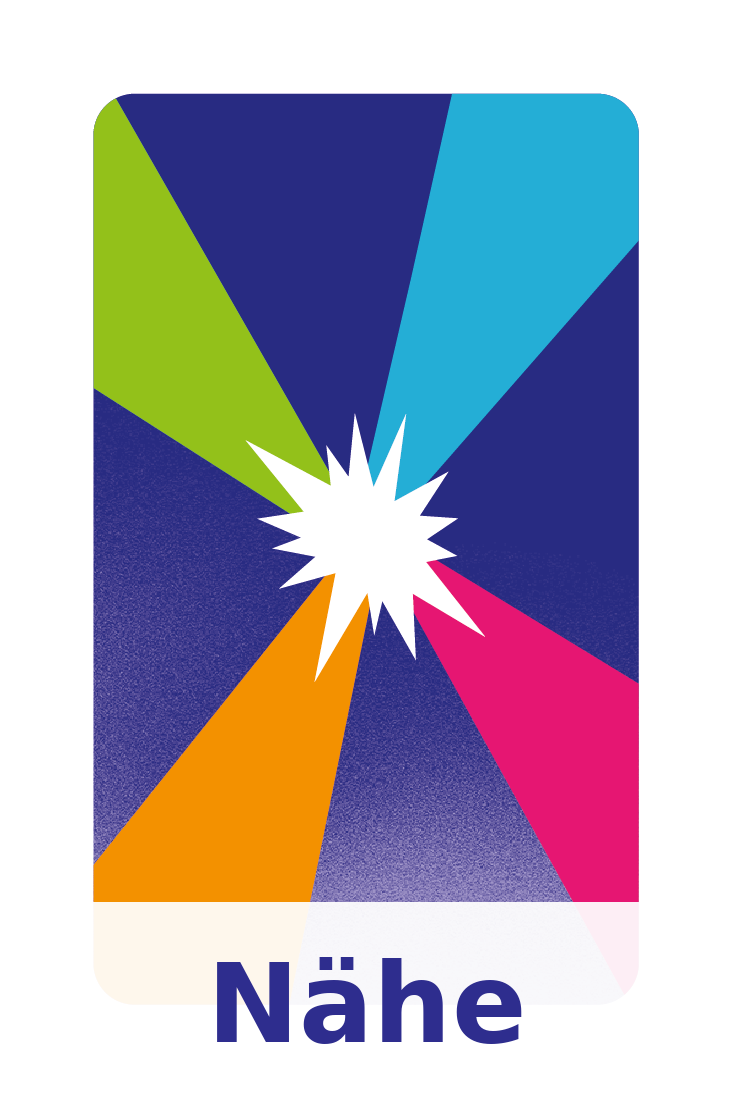
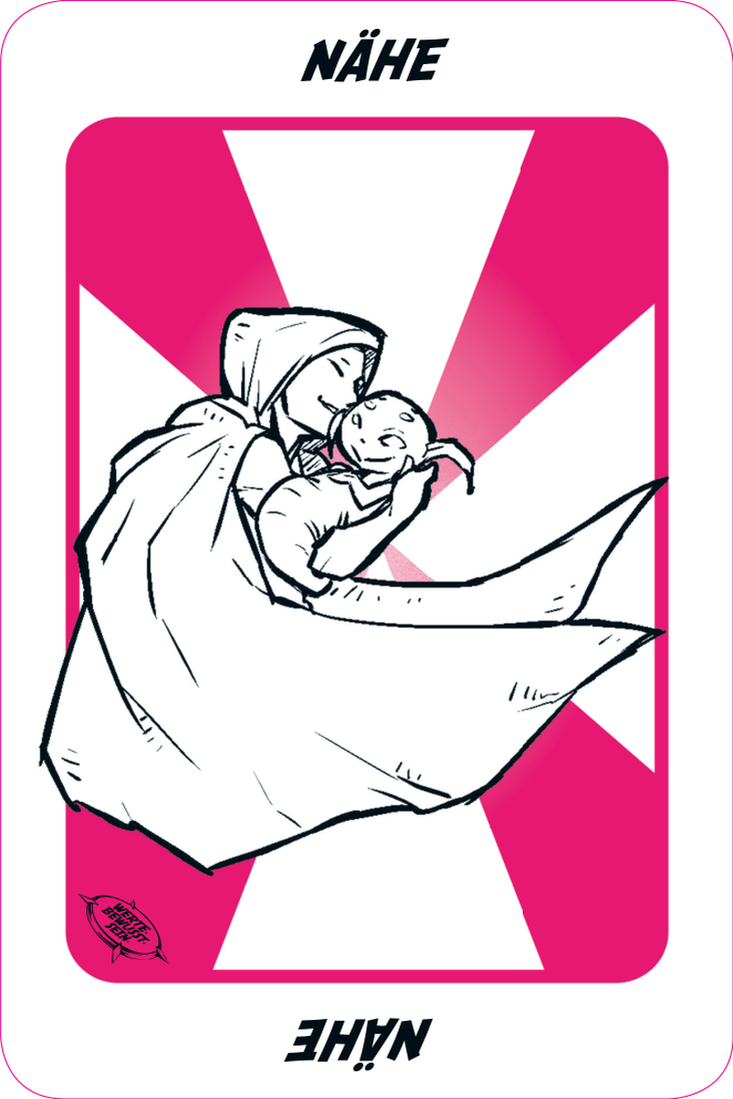
asd

diff --git a/wertetest/index.html b/wertetest/index.html
@@ -1316,10 +1316,11 @@ function DemographicsLight({ schule, klasse, onSubmit, onBack, needsKlassenwahl 
   var VS_BLUE = "#2E2D8E";
 
   // Klassen-Bezeichnung berechnen — entweder Dropdown oder Freitext
+  // Zug ist optional (manche Stufen wie 11/12/13 haben keinen)
   let klasseLabel = "";
   if (needsKlassenwahl) {
     if (freitext.trim()) klasseLabel = freitext.trim();
-    else if (stufe && zug) klasseLabel = (stufe.length === 1 ? "0" + stufe : stufe) + zug;
+    else if (stufe) klasseLabel = (stufe.length === 1 ? "0" + stufe : stufe) + (zug || "");
   }
 
   const ready = !!geschlecht && (!needsKlassenwahl || !!klasseLabel);
@@ -1376,7 +1377,7 @@ function DemographicsLight({ schule, klasse, onSubmit, onBack, needsKlassenwahl 
               flex: 1, padding: "10px 12px", borderRadius: 10, border: "2px solid #e5e7eb",
               fontSize: 14, fontWeight: 600, color: VS_BLUE, background: "#fff", cursor: "pointer",
             }}>
-              <option value="">Zug</option>
+              <option value="">Zug (opt.)</option>
               {["A", "B", "C", "D"].map(z => <option key={z} value={z}>{z}</option>)}
             </select>
           </div>

diff --git a/wertetest/studie/index.html b/wertetest/studie/index.html
@@ -572,7 +572,6 @@ function SchulcodeEntry({ rolle, onSubmit, checking, error, initial }) {
   const submit = () => onSubmit(code);
   return (
     <div className="fade-in" style={{ padding: "48px 20px 60px", textAlign: "center" }}>
-      <div style={{ fontSize: 48, marginBottom: 8 }}>🎫</div>
       <div style={{ fontSize: 24, fontWeight: 900, color: COL.blueDark, marginBottom: 8 }}>
         {rolle === "schueler" ? "Hi! Schön, dass du da bist." : "Hallo!"}
       </div>
